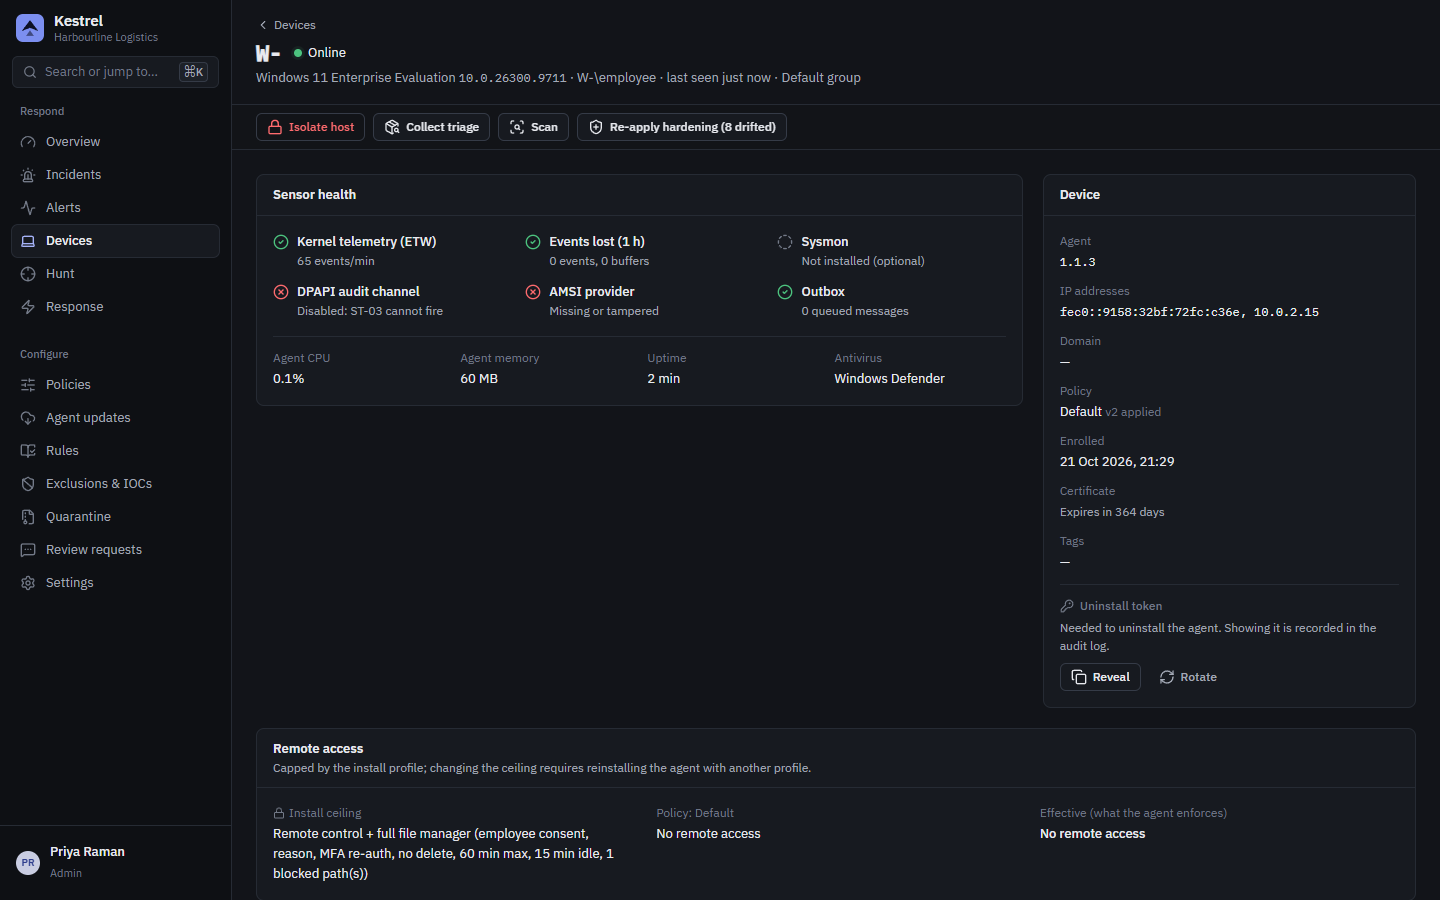
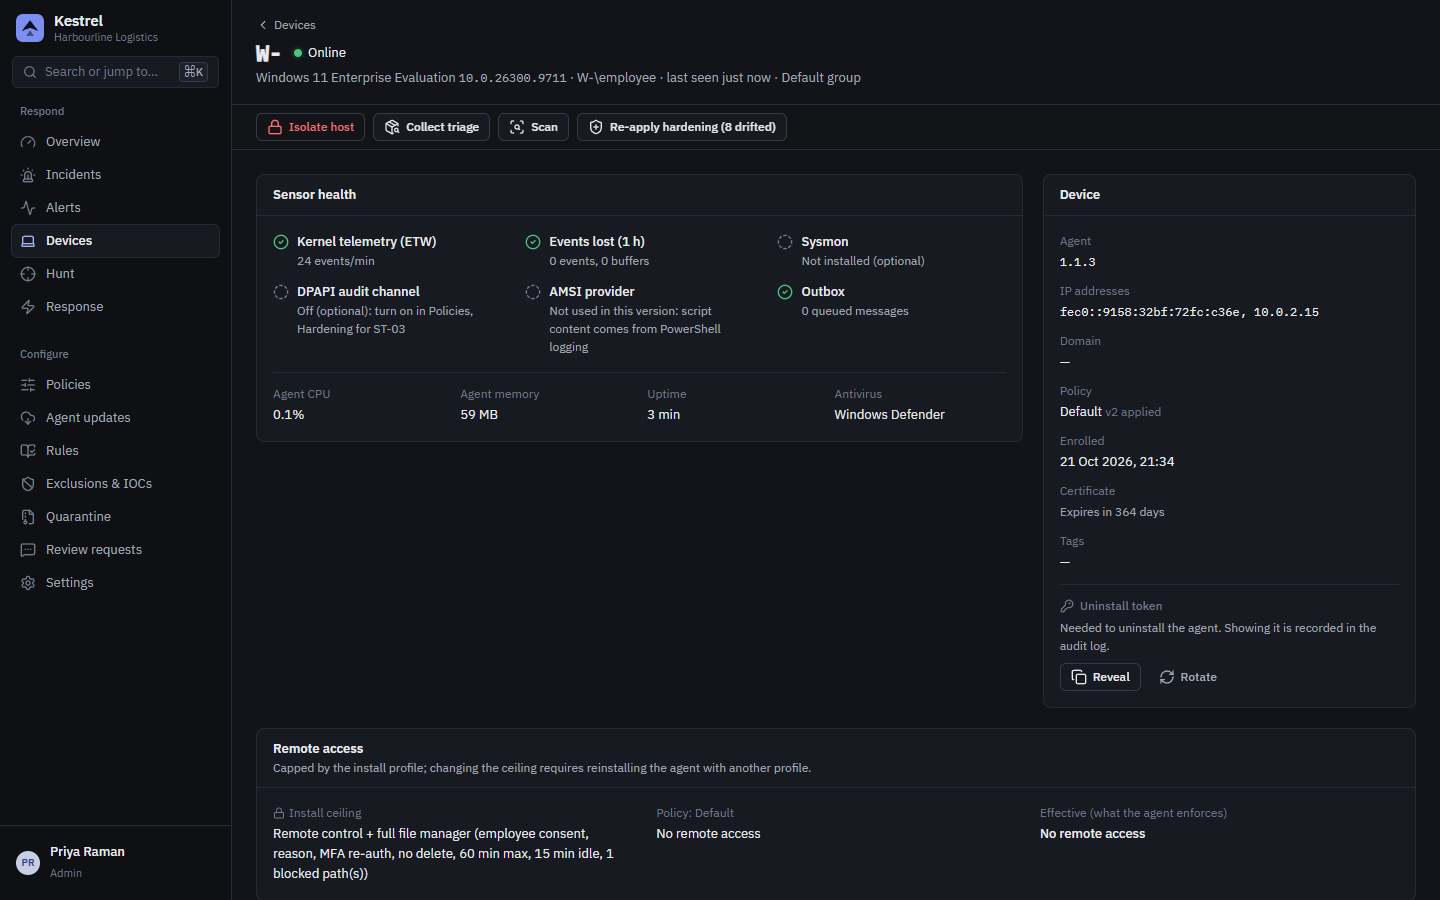
Guide: final screenshots on a clean 1.1.3 install (device page, tray)
Claude-Session: https://claude.ai/code/session_01VS2t82PD16GuiVbiP6eknz

diff --git a/website/guide/quick-start.md b/website/guide/quick-start.md
@@ -220,7 +220,7 @@ Back in the console, open **Devices**. The PC appears within a few seconds of th
 
 <Shot name="guide/12-devices-online" alt="Devices list with the new PC" />
 
-Click it to see its sensor health, policy, remote-access setting and the tabs for events, alerts and response.
+Click it to see its sensor health, policy, remote-access setting and the tabs for events, alerts and response. Green rows are working. Grey rows are optional features that are switched off, such as the DPAPI audit channel, which you can turn on later under **Policies**, **Hardening**.
 
 <Shot name="guide/13-device-page" alt="Device page of the new PC" />
 
@@ -228,7 +228,7 @@ Click it to see its sensor health, policy, remote-access setting and the tabs fo
 
 The Kestrel shield appears in the notification area at the next sign-in. Clicking it opens the tray app, which shows the protection status and explains anything Kestrel stopped.
 
-<Shot src="img/tray/real-desktop.png" alt="Kestrel tray app on a Windows 11 desktop" />
+<Shot src="img/guide/14-tray.png" alt="Kestrel tray app on the Windows 11 desktop: You're protected, connected to IT, version 1.1.3" />
 
 On the PC you can also check the service from an administrator PowerShell:
 
